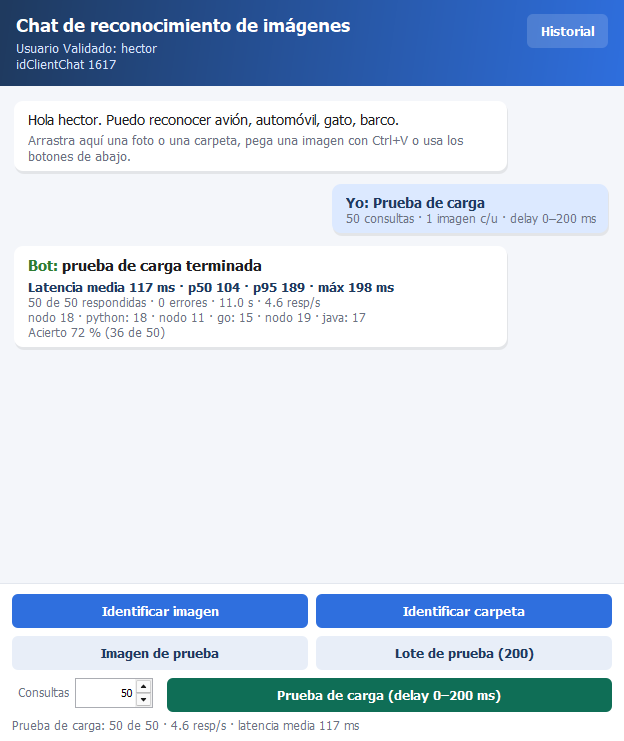
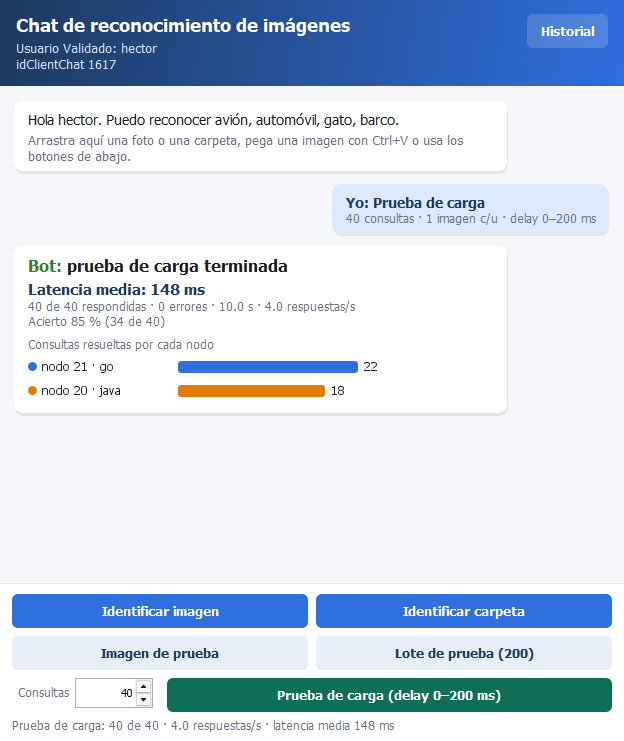
Chat: mensaje de la prueba de carga más claro, con barras de consultas por nodo

diff --git a/java/src/cubes/client/ChatClient.java b/java/src/cubes/client/ChatClient.java
@@ -429,12 +429,19 @@ public final class ChatClient {
                 12f, Font.PLAIN, MUTED));
         addRow(mine, true);
         final Bubble bot = botBubble();
-        final JLabel progress = text("Bot: enviando consultas...", 14f, Font.ITALIC, MUTED);
+        final JLabel progress = text("Bot: enviando consultas... 0 de " + n, 14f, Font.ITALIC, MUTED);
+        final JLabel barsTitle = text("Consultas resueltas por cada nodo", 12f, Font.PLAIN, MUTED);
+        final NodeBars bars = new NodeBars();
         bot.add(progress);
+        bot.add(gap(6));
+        bot.add(barsTitle);
+        bot.add(gap(2));
+        bot.add(bars);
         addRow(bot, false);
         setBusy(true);
         setStatus("Prueba de carga: 0 de " + n);
-        new SwingWorker<LoadStats, Integer>() {
+        // se publica {consultas hechas, nombre del nodo que respondió (null si hubo error), id del nodo}
+        new SwingWorker<LoadStats, Object[]>() {
             @Override
             protected LoadStats doInBackground() throws Exception {
                 LoadStats st = new LoadStats();
@@ -449,11 +456,14 @@ public final class ChatClient {
                     System.arraycopy(samples.raw, samples.pixelOffset(idx), px, 0, px.length);
                     long q0 = System.nanoTime();
                     st.sent++;
+                    String node = null;
+                    int nodeId = 0;
                     try {
                         ServerConnection.Result res = conn.identify(Msg.FORMAT_RAW, px);
                         st.latencies.add((System.nanoTime() - q0) / 1000000);
                         st.ok++;
-                        String node = nodeName(res.nodeId, res.nodeLang);
+                        node = nodeName(res.nodeId, res.nodeLang);
+                        nodeId = res.nodeId;
                         Integer c = st.byNode.get(node);
                         st.byNode.put(node, c == null ? 1 : c + 1);
                         String truth = sampleTruth(idx);
@@ -463,17 +473,23 @@ public final class ChatClient {
                     } catch (Exception ex) {
                         st.errors++;
                     }
-                    publish(i + 1);
+                    publish(new Object[] {i + 1, node, nodeId});
                 }
                 st.totalMs = (System.nanoTime() - t0) / 1000000;
                 return st;
             }
 
             @Override
-            protected void process(List<Integer> chunks) {
-                int done = chunks.get(chunks.size() - 1);
+            protected void process(List<Object[]> chunks) {
+                for (Object[] c : chunks) {
+                    if (c[1] != null) {
+                        bars.add((String) c[1], nodeColor((Integer) c[2]));
+                    }
+                }
+                int done = (Integer) chunks.get(chunks.size() - 1)[0];
                 progress.setText("Bot: enviando consultas... " + done + " de " + n);
                 setStatus("Prueba de carga: " + done + " de " + n);
+                bot.revalidate();
             }
 
             @Override
@@ -492,25 +508,28 @@ public final class ChatClient {
                     long p50 = percentile(lat, 50), p95 = percentile(lat, 95), max = lat.isEmpty() ? 0 : lat.get(lat.size() - 1);
                     double secs = st.totalMs / 1000.0;
                     double rps = secs > 0 ? st.ok / secs : 0;
-                    JLabel title = text("x", 15f, Font.BOLD, TEXT);
+                    JLabel title = text("x", 16f, Font.BOLD, TEXT);
                     title.setText("<html><font color='#2E7D32'>Bot:</font>&nbsp;prueba de carga terminada</html>");
                     bot.add(title);
                     bot.add(gap(4));
-                    bot.add(text(String.format(Locale.ROOT, "Latencia media %.0f ms · p50 %d · p95 %d · máx %d ms",
-                            mean, p50, p95, max), 13f, Font.BOLD, NAVY));
-                    bot.add(text(String.format(Locale.ROOT, "%d de %d respondidas · %d errores · %.1f s · %.1f resp/s",
+                    bot.add(text(String.format(Locale.ROOT, "Latencia media: %.0f ms", mean), 15f, Font.BOLD, NAVY));
+                    bot.add(text(String.format(Locale.ROOT, "%d de %d respondidas · %d errores · %.1f s · %.1f respuestas/s",
                             st.ok, st.sent, st.errors, secs, rps), 12f, Font.PLAIN, MUTED));
-                    StringBuilder nodes = new StringBuilder();
-                    for (Map.Entry<String, Integer> e : st.byNode.entrySet()) {
-                        nodes.append(nodes.length() == 0 ? "" : " · ").append(e.getKey()).append(": ").append(e.getValue());
-                    }
-                    bot.add(text(nodes.length() == 0 ? "ningún nodo respondió" : nodes.toString(), 12f, Font.PLAIN, MUTED));
                     if (st.ok > 0) {
                         bot.add(text(String.format(Locale.ROOT, "Acierto %.0f %% (%d de %d)", 100.0 * st.hits / st.ok,
                                 st.hits, st.ok), 12f, Font.PLAIN, MUTED));
                     }
-                    setStatus(String.format(Locale.ROOT, "Prueba de carga: %d de %d · %.1f resp/s · latencia media %.0f ms",
+                    bot.add(gap(8));
+                    bot.add(barsTitle);
+                    bot.add(gap(2));
+                    bot.add(bars);
+                    StringBuilder nodes = new StringBuilder();
+                    for (Map.Entry<String, Integer> e : st.byNode.entrySet()) {
+                        nodes.append(nodes.length() == 0 ? "" : " · ").append(e.getKey()).append(": ").append(e.getValue());
+                    }
+                    setStatus(String.format(Locale.ROOT, "Prueba de carga: %d de %d · %.1f respuestas/s · latencia media %.0f ms",
                             st.ok, st.sent, rps, mean));
+                    // el CSV guarda también p50, p95 y máximo para el informe, aunque el chat no los muestre
                     saveLoadRow(n, st, secs, rps, mean, p50, p95, max, nodes.toString());
                 } catch (Exception ex) {
                     Throwable c = ex.getCause() == null ? ex : ex.getCause();
